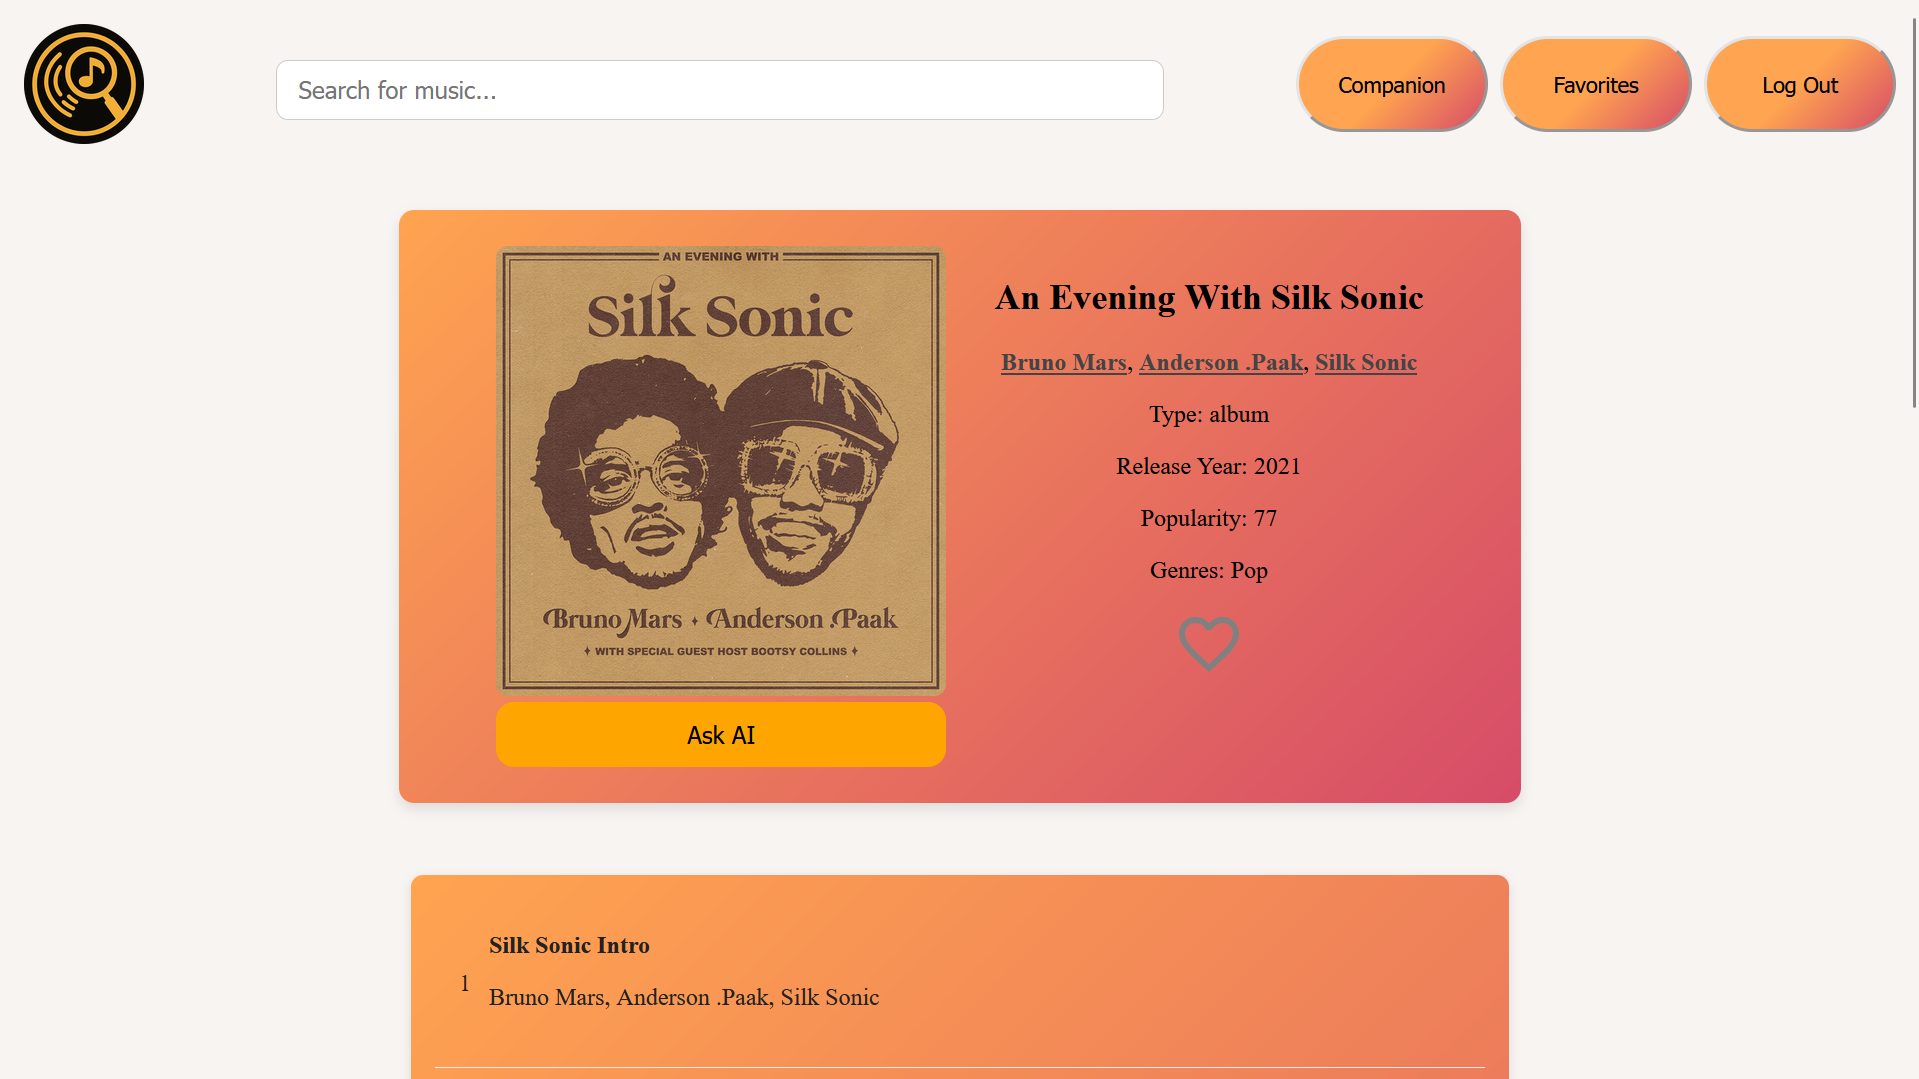
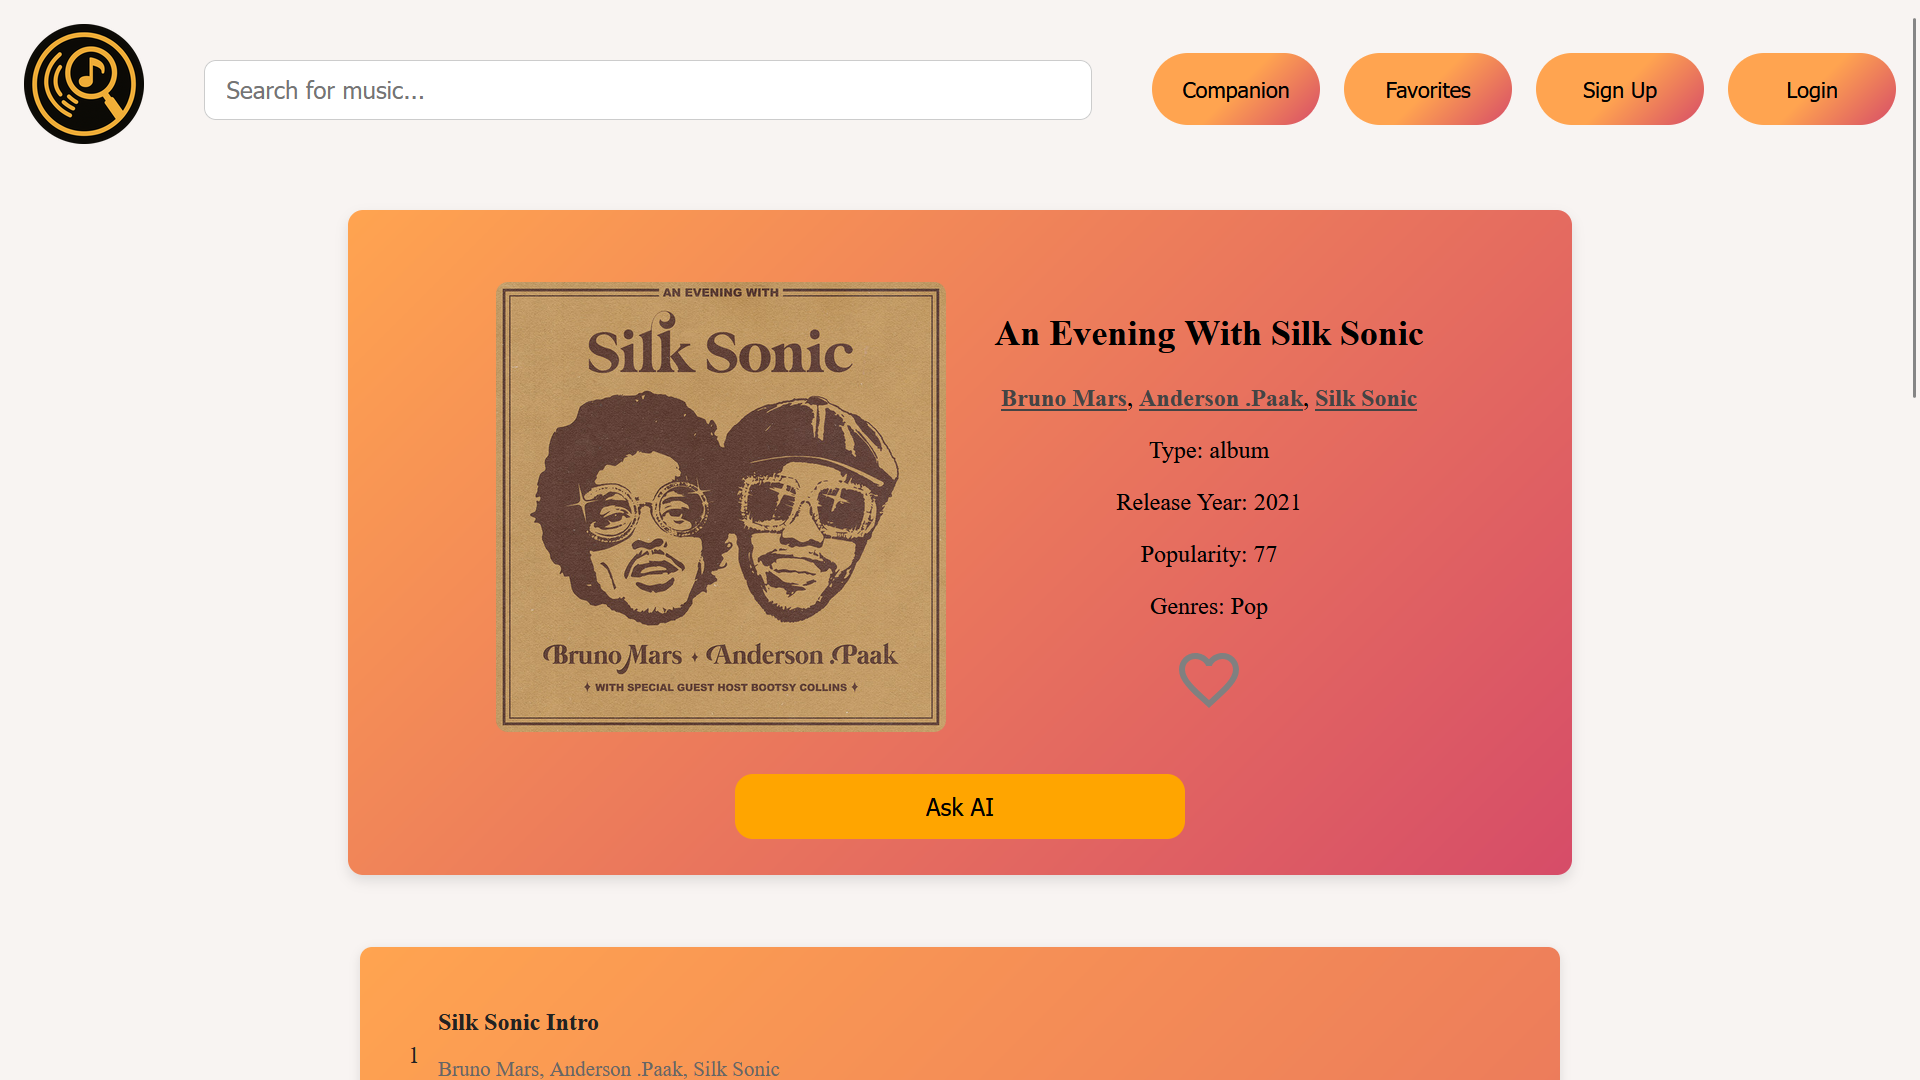
Changed video and images

diff --git a/frontend/src/pages/music/AlbumDetails.module.css b/frontend/src/pages/music/AlbumDetails.module.css
@@ -4,7 +4,7 @@
   justify-content: center;
   align-items: center;
   padding: 1rem;
-  max-width: 80vw;
+  max-width: 60vw;
   margin: 1rem auto;
   gap: 1rem;
 }

diff --git a/frontend/src/pages/music/TrackDetails.module.css b/frontend/src/pages/music/TrackDetails.module.css
@@ -4,7 +4,7 @@
   justify-content: center;
   align-items: center;
   padding: 1rem;
-  max-width: 80vw;
+  max-width: 60vw;
   margin: 1rem auto;
   gap: 1rem;
 }

diff --git a/README.md b/README.md
@@ -34,7 +34,7 @@ API documentation is automatically generated and available at:
 
 ### 🎥 Demo Video
 
-<a href="https://youtu.be/8Fv_tWG-gIY" target="_blank">
+<a href="https://youtu.be/SbZUSdSBhTo" target="_blank">
   <img 
     src="https://github.com/EASS-HIT-PART-A-2025-CLASS-VII/TuneQuest/blob/master/frontend/src/assets/home-page-play.png" 
     alt="TuneQuest Project Demo" 
